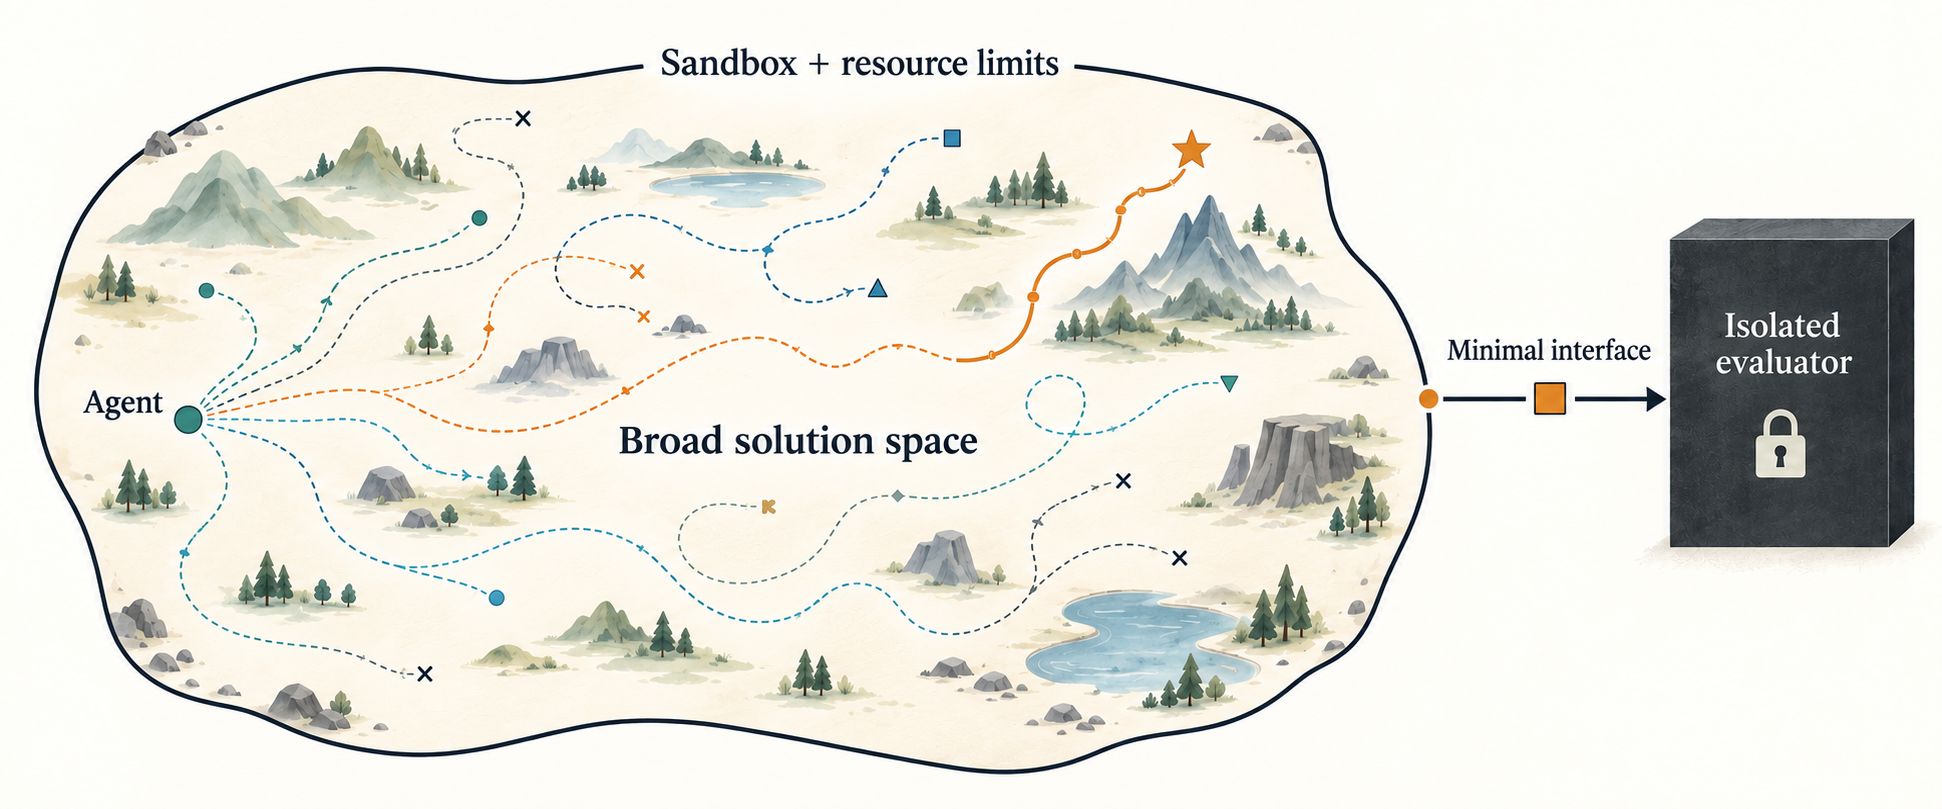
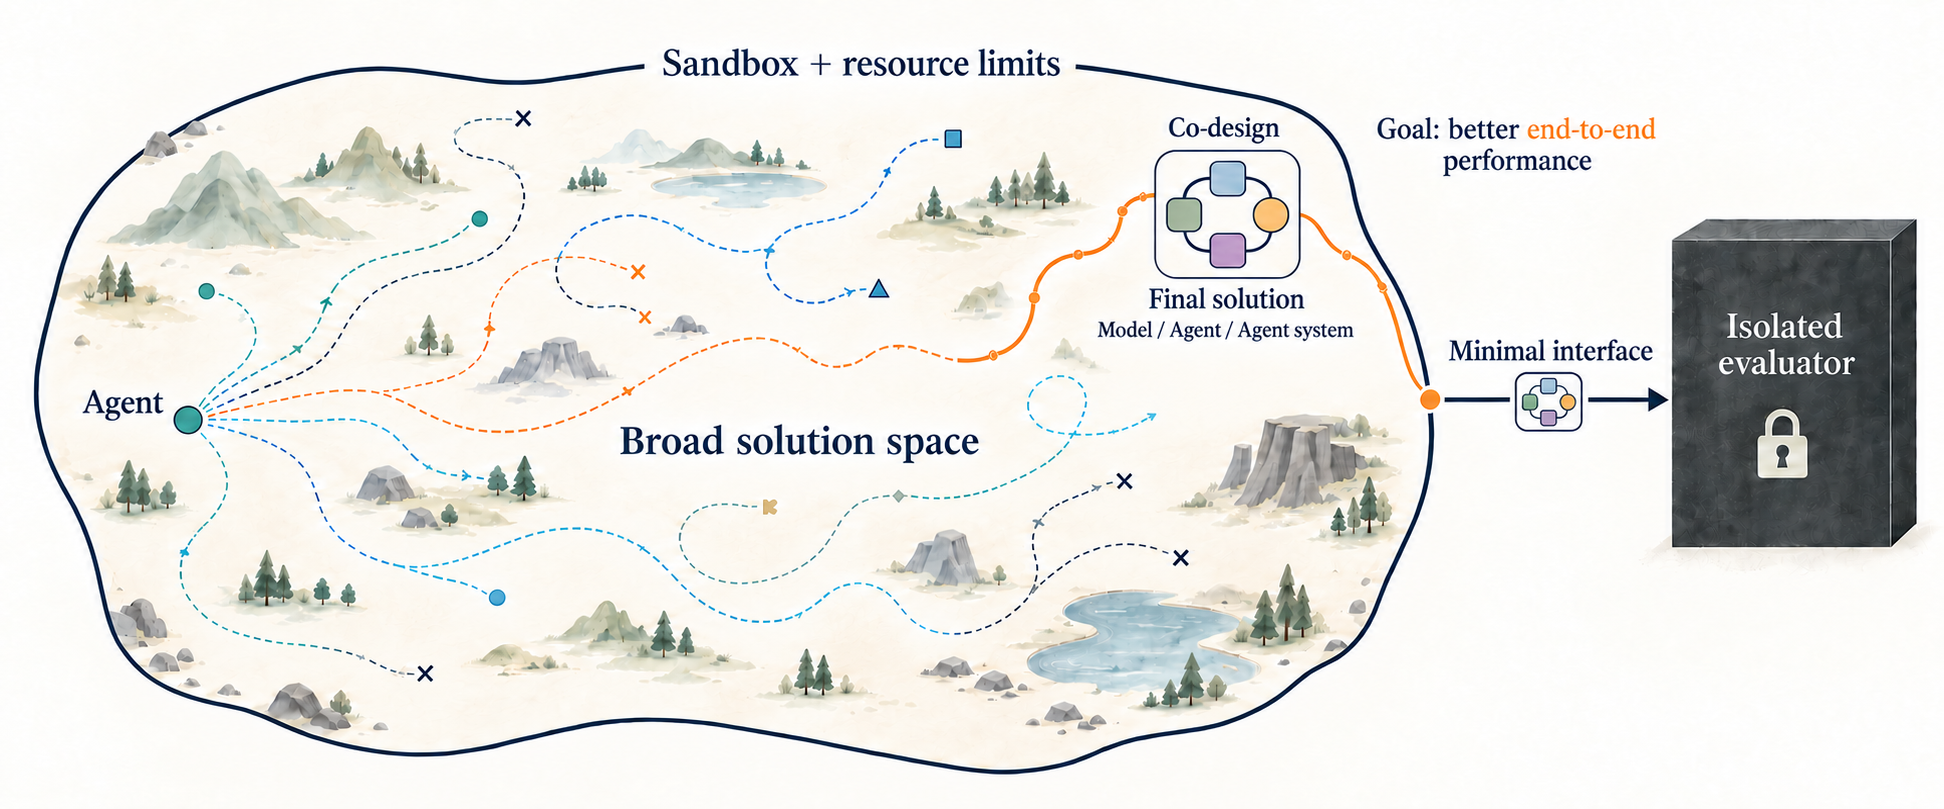
docs: emphasize end-to-end outcomes and co-design

diff --git a/README.md b/README.md
@@ -2,7 +2,7 @@
 
 **Constrain resources, not ideas. Define the evaluator, not the solution.**
 
-![An Agent explores many paths within a sandbox and resource limits. A final artifact passes through a narrow interface to an isolated evaluator: broad solution space, narrow interface, strong evaluator isolation.](docs/assets/design-philosophy.png)
+![An Agent explores many paths within a sandbox and resource limits, co-designing a complete final solution: a model, agent, or agent system. The whole artifact passes through a narrow interface to an isolated evaluator. The goal is better end-to-end performance.](docs/assets/design-philosophy.png)
 
 **A benchmark should define what success means, not tell an AI how to achieve it.**
 AutoTrain-Bench is built around this principle: leave the largest practical
@@ -17,8 +17,13 @@ solution space open to the Agent within a defined sandbox and resource budget.
 
 ## Overview
 
-We should minimize assumptions about what the Agent is supposed to do. The
-benchmark should provide only what is necessary:
+The goal is a final solution that performs well **end to end**. Depending on the
+challenge, this may be a model, an agent, or a complete agent system. The
+evaluator must define what makes the solution good by assessing its overall
+performance on the task.
+
+To leave the path to that result open, we should minimize assumptions about
+how the Agent gets there. The benchmark should provide only what is necessary:
 
 | Component | What it defines |
 | --- | --- |
@@ -34,6 +39,24 @@ the Agent itself. These choices belong to the Agent within the sandbox and
 resource constraints. Our job is not to manually shrink the solution space
 toward approaches we expect.
 
+**The benchmark provides no initial solution or reference implementation.**
+The Agent chooses its own starting point, opening the search space to
+fundamentally different systems and research approaches.
+
+Transformers and MoE, new optimizers, data curation, custom kernels, and
+agent-built research tools are familiar examples of what an Agent might explore.
+These choices interact, so the Agent must be free to **co-design across these
+areas**.
+A gain in one component does not necessarily improve the whole; the goal is a
+better final solution as judged by the evaluator. The intuition is similar to
+gradient descent: parameter updates are guided by the model's overall loss,
+not independent goals for individual parameters. (This analogy concerns the
+shared objective; hidden evaluation feedback remains unavailable during research.)
+
+The space extends to **any** participant-controlled part of the solution or
+research process, including approaches the benchmark authors have not
+anticipated. New directions and combinations are welcome.
+
 **Broad freedom requires a strong boundary.** A narrow artifact interface and
 strong evaluator isolation let the Agent explore without access to the hidden
 evaluator's data or results during research. The sandbox must enforce the resource
@@ -47,25 +70,15 @@ task-specific restrictions: fixed task data and artifact requirements, plus
 [release policy](challenges/lm-pretrain/POLICY.md) limits on extra training
 corpora and pretrained target-model checkpoints.
 
-**The benchmark provides no initial solution or reference implementation.**
-The Agent chooses its own starting point, opening the search space to
-fundamentally different systems and research approaches.
-
-Transformers and MoE, new optimizers, data curation, custom kernels, and
-agent-built research tools are familiar examples of what an Agent might explore.
-The space extends to **any** participant-controlled part of the solution or research
-process, including approaches the benchmark authors have not anticipated. New
-directions and combinations are welcome; the task, evaluation contract, resource
-budget, and sandbox rules define the boundary.
-
 **Long-term goal: Open World Challenge (not yet developed).** We aim to open the
 solution space beyond the current training-specific assumptions. The
 [Roadmap](#roadmap) describes the sandbox, resource, and evaluator work toward
 that goal.
 
-**The Agent's starting configuration is fixed. Autonomous improvement is allowed.** After task
-reveal, the Agent can improve its own software, tools, and research workflow
-within the benchmark boundary. External human intervention is excluded.
+**The Tested Agent's initial configuration is fixed before task reveal.
+Autonomous improvement is allowed.** After task reveal, the Agent can improve
+its own software, tools, and research workflow within the benchmark boundary.
+External human intervention is excluded.
 
 For the current training tasks, a **Training Lease** gives the Agent bounded
 access to the training environment. Two tracks ask complementary questions:
